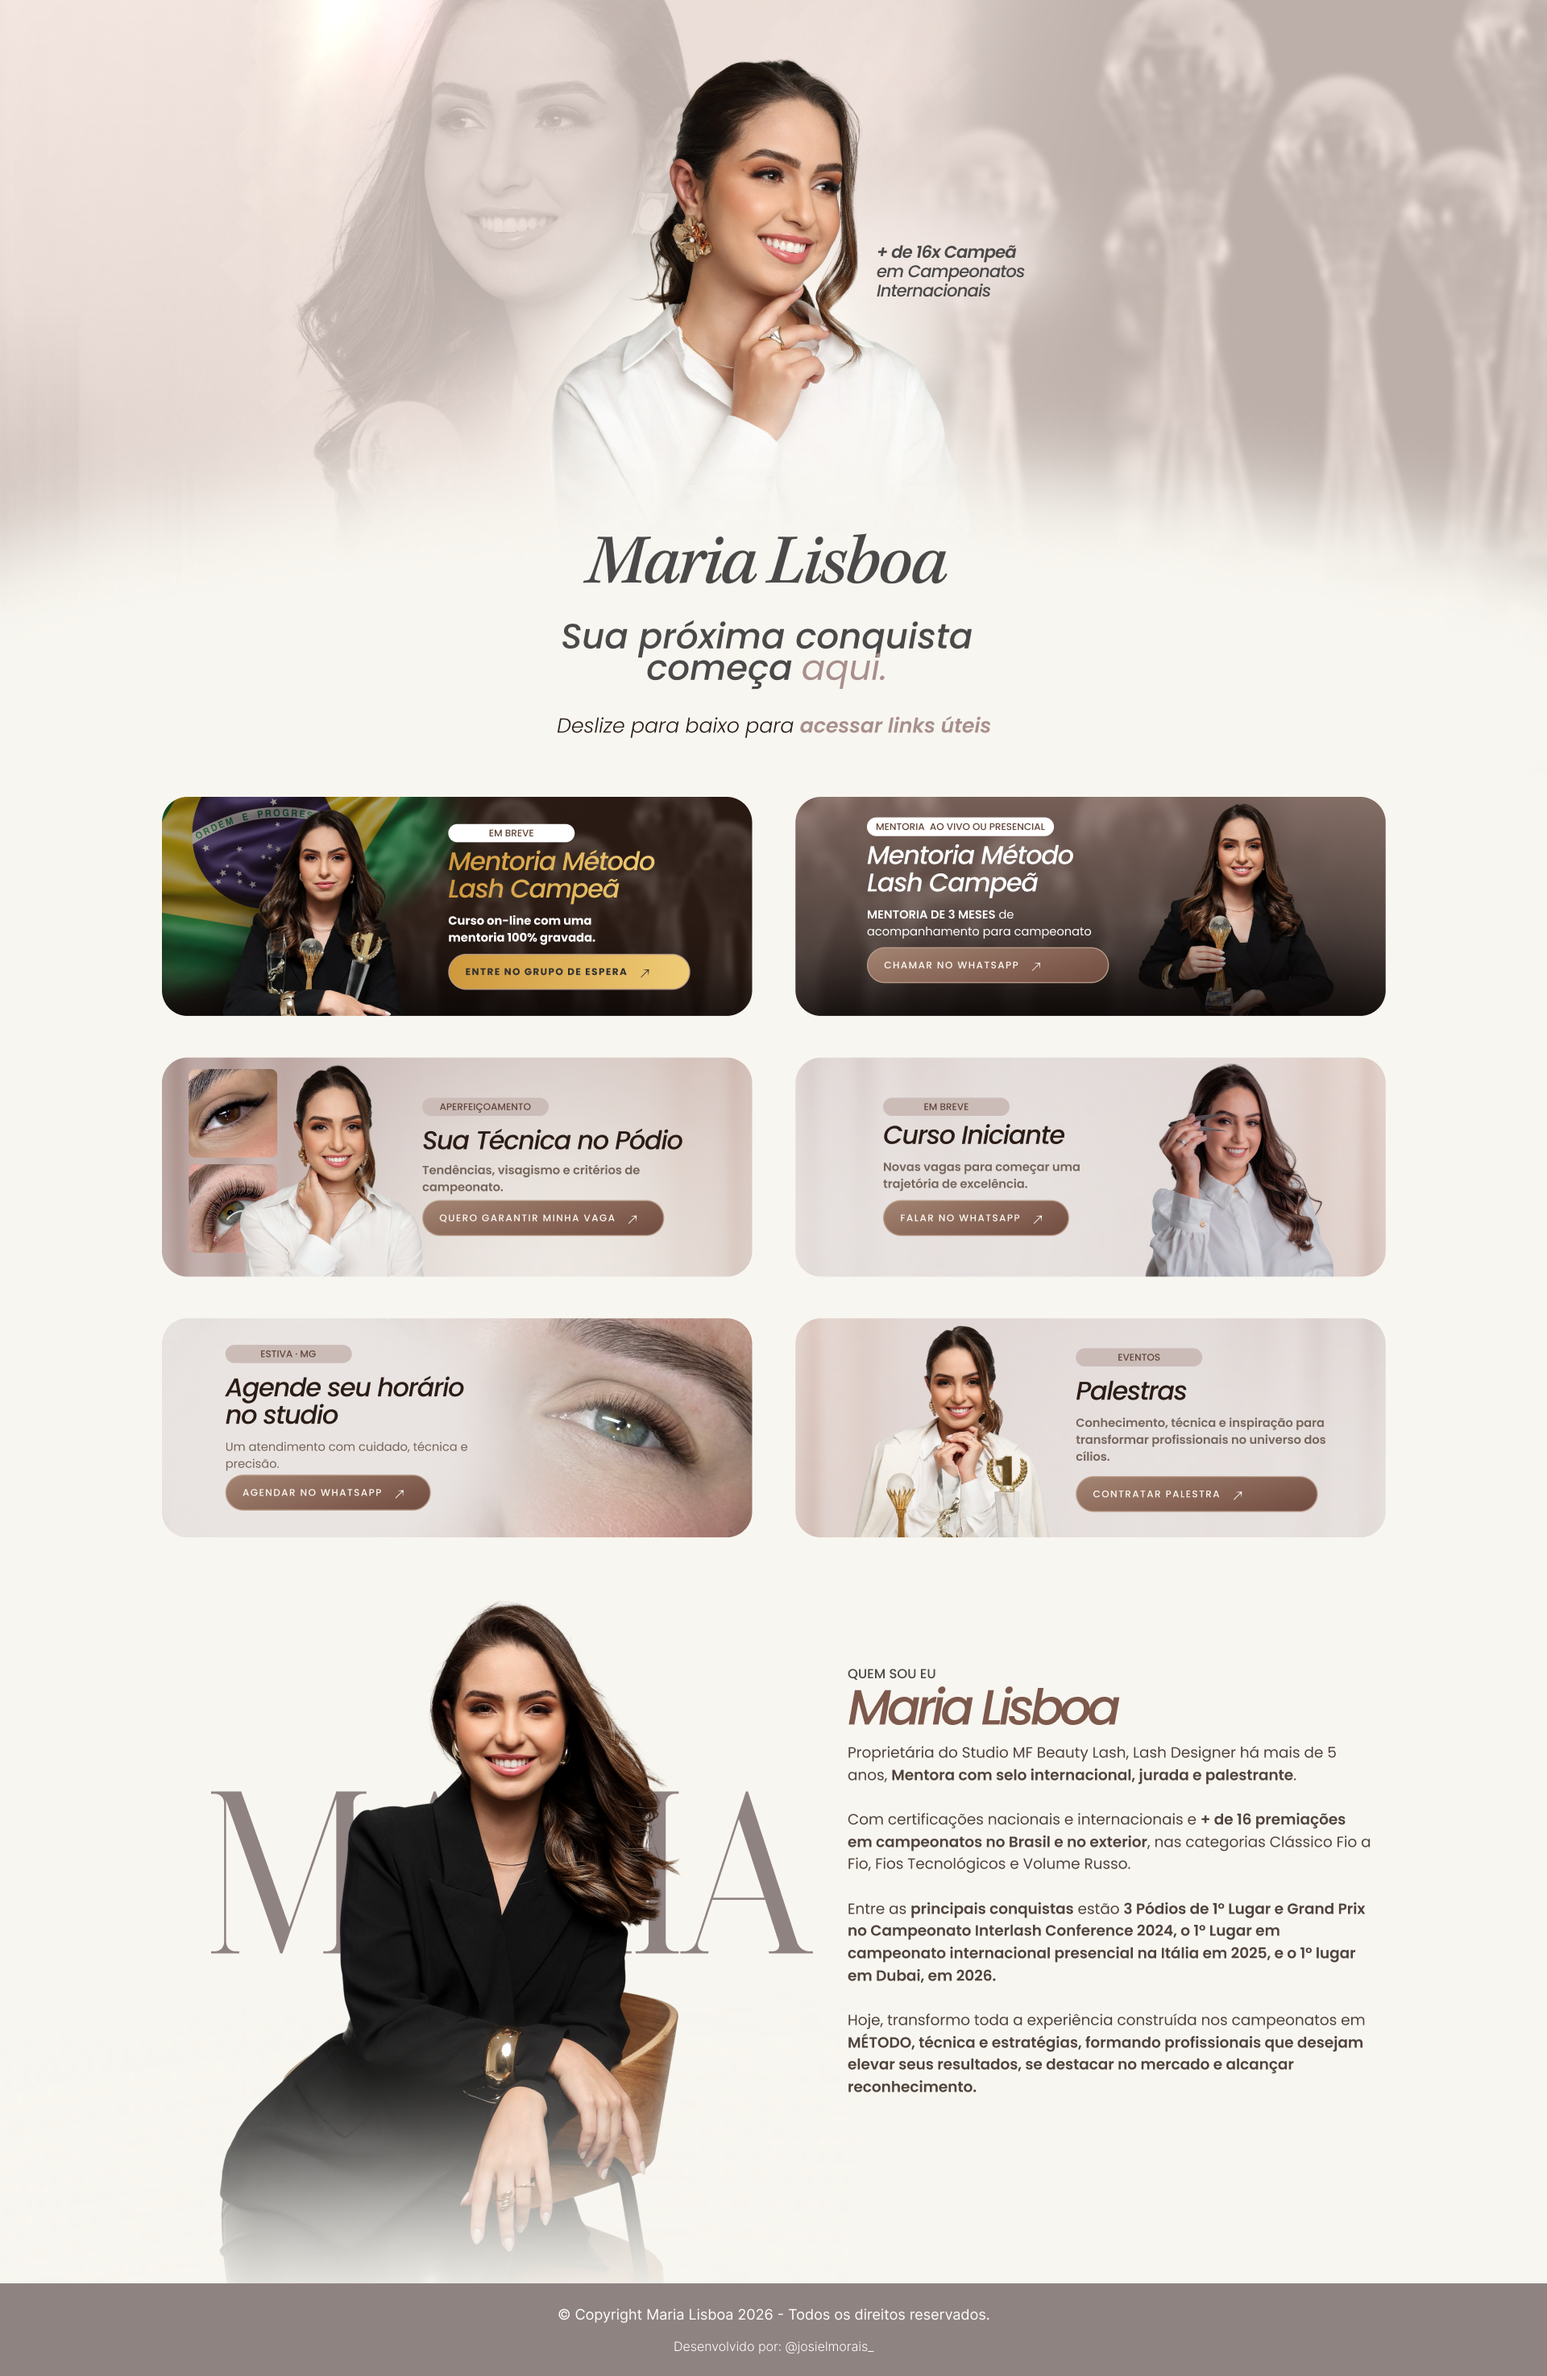
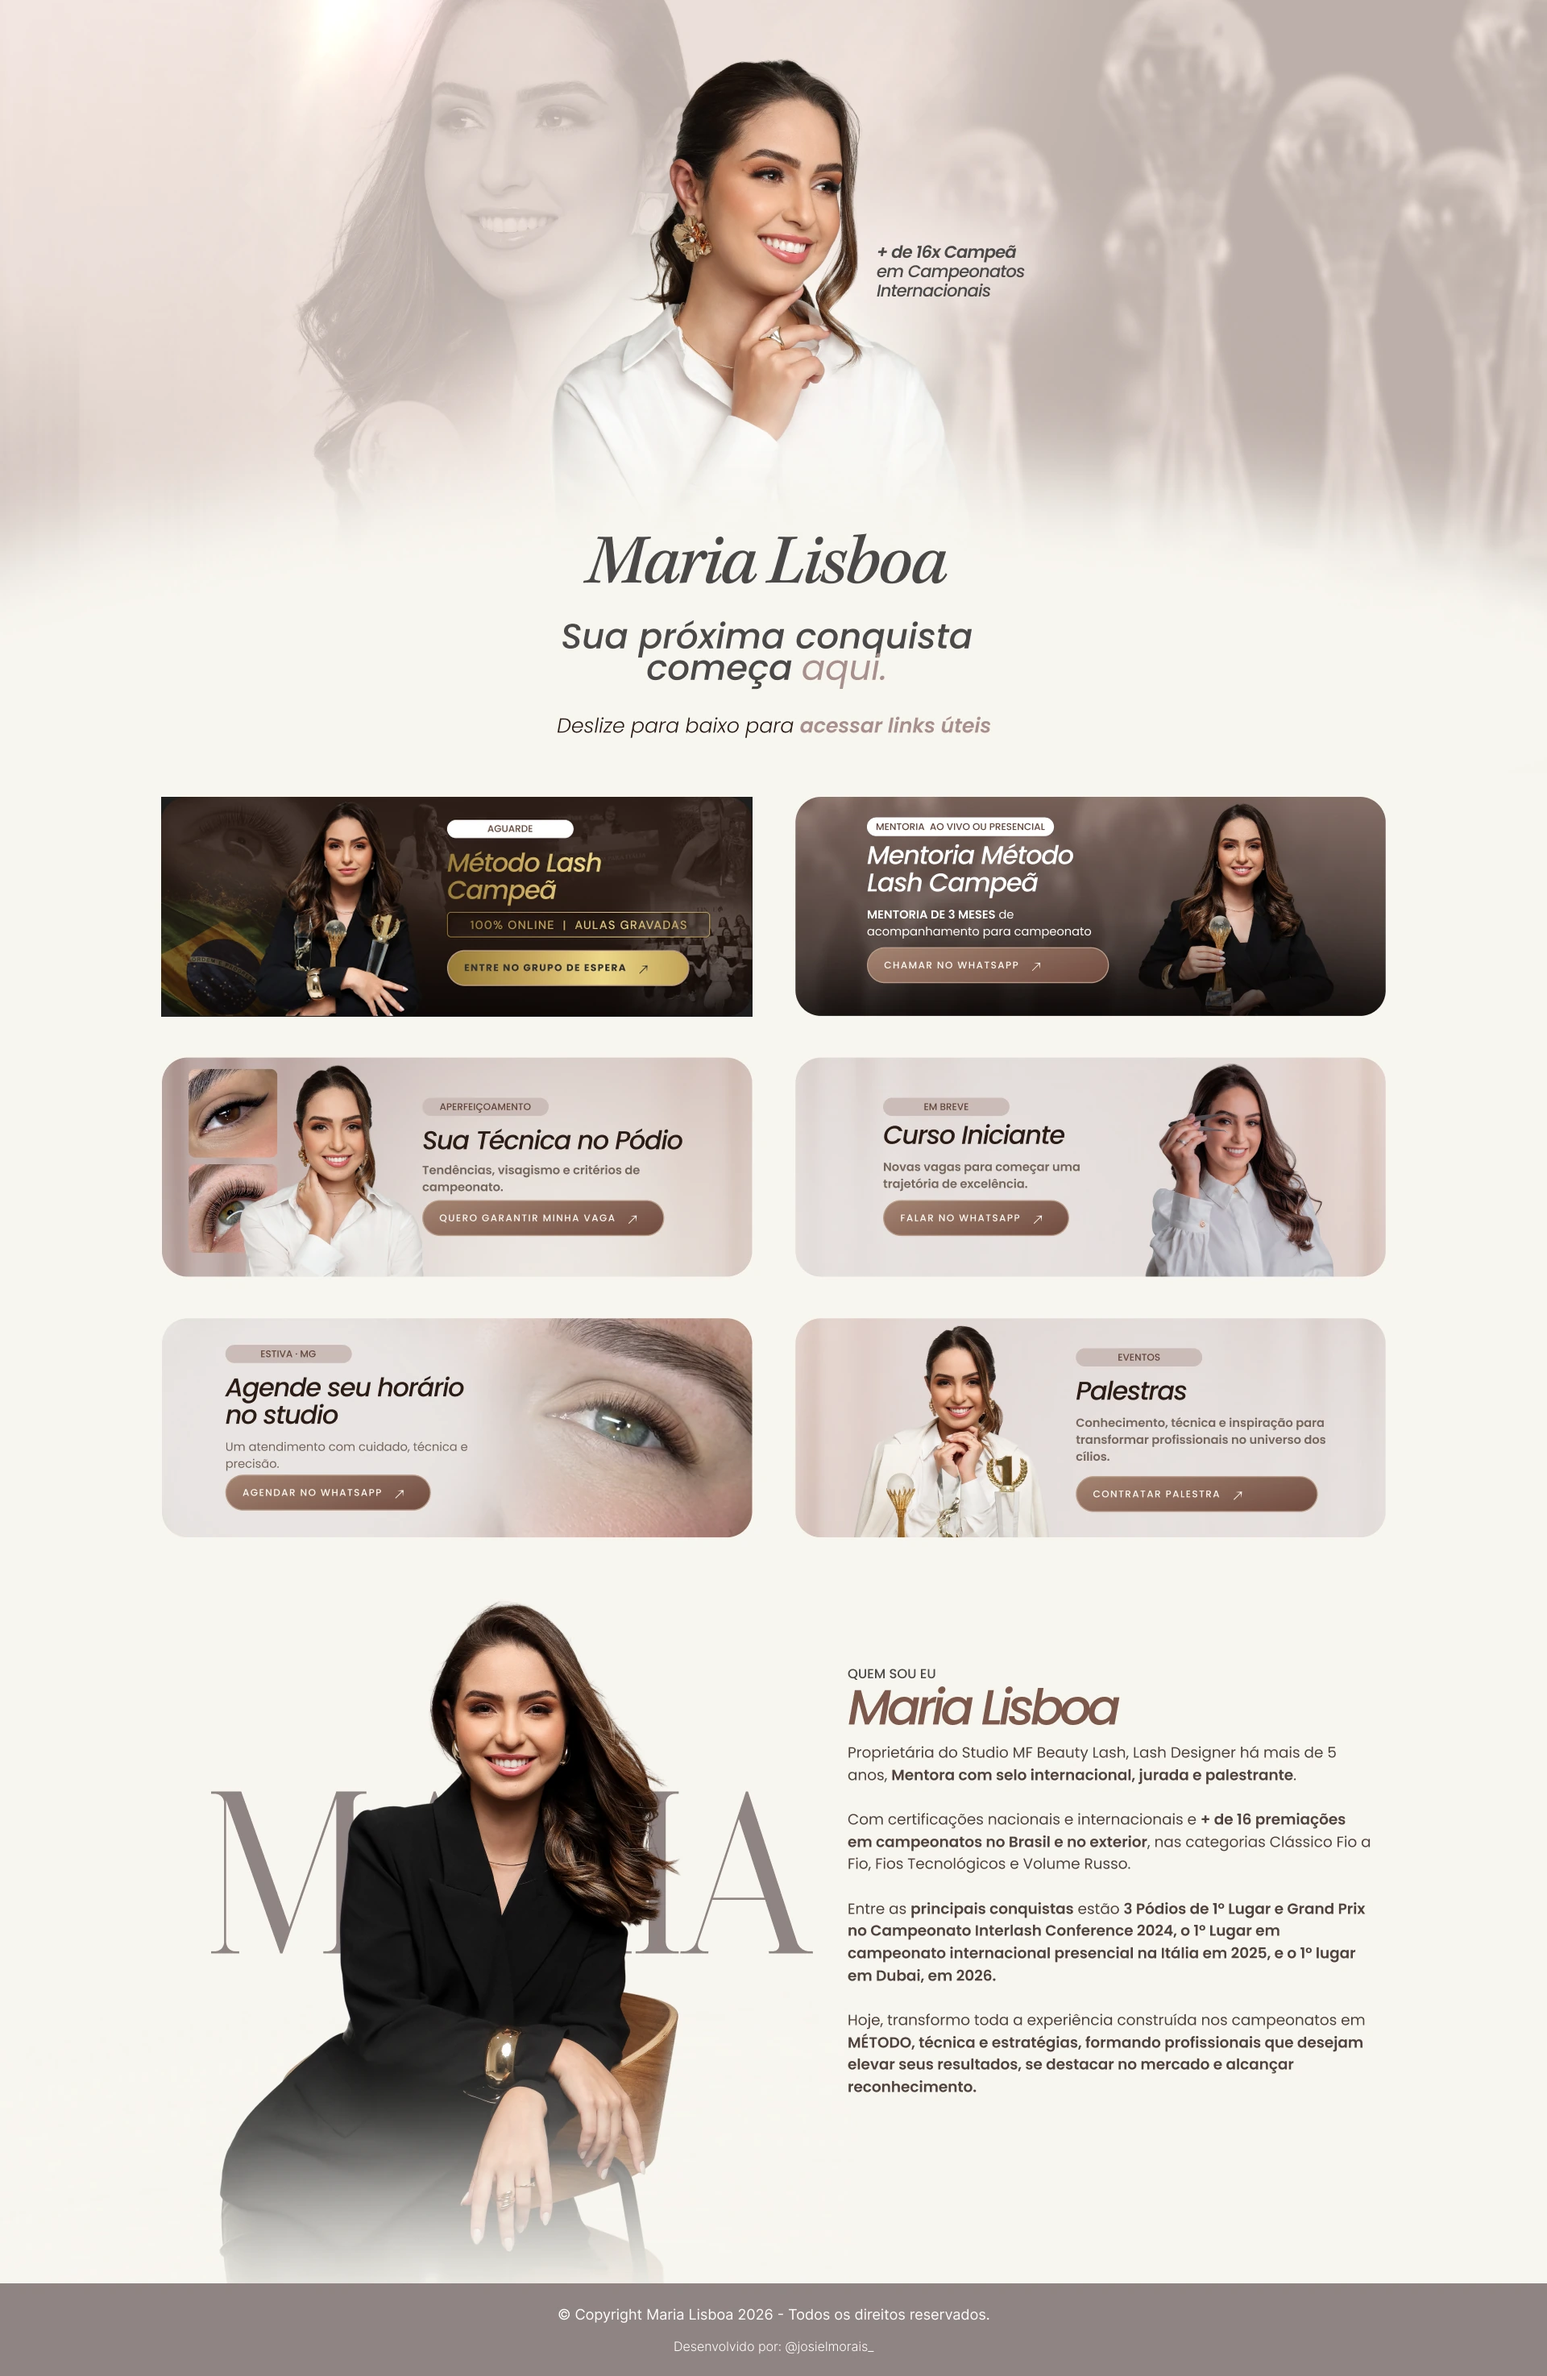
feat: atualizar botao MLC e rodape desktop

Changed region(s): [[0.0938, 0.312, 0.5, 0.4368]]

diff --git a/dist/index.html b/dist/index.html
@@ -6,7 +6,8 @@
   <meta name="theme-color" content="#f8f6f0" />
   <meta name="description" content="Maria Lisboa, Lash Designer, mentora, jurada e palestrante." />
   <title>Maria Lisboa | Lash Designer & Mentora</title>
-  <style>:root{--cream:#f8f6f0;--scale:1}
+  <style>@import url('https://fonts.googleapis.com/css2?family=Inter:wght@300;400&display=swap');
+:root{--cream:#f8f6f0;--scale:1}
 *{box-sizing:border-box}
 html,body{margin:0;background:var(--cream)}
 html{scroll-behavior:smooth}
@@ -15,6 +16,10 @@ body{min-width:320px;overflow-x:hidden;-webkit-font-smoothing:antialiased}
 .site{position:absolute;inset:0 auto auto 0;overflow:hidden;background:var(--cream);transform:scale(var(--scale));transform-origin:top left}
 .site-mobile{display:block;width:800px;height:3791px}
 .site-desktop{display:none;width:1920px;height:2949px}
+.desktop-footer{position:absolute;left:0;top:2834px;width:1920px;height:115px;background:#8f8382;color:#fff;font-family:'Inter',Arial,sans-serif}
+.desktop-footer p{position:absolute;margin:0;line-height:normal;white-space:nowrap}
+.desktop-footer-copyright{left:calc(50% - 268px);top:27px;font-size:18px;font-weight:400}
+.desktop-footer-developer{left:calc(50% + .5px);top:69px;transform:translateX(-50%);font-size:16px;font-weight:300}
 .slice{position:absolute;left:0;top:var(--y);width:100%;height:var(--h);overflow:hidden;background:var(--cream)}
 .slice-content{position:absolute;inset:0;overflow:hidden}
 .slice img{position:absolute;left:0;top:calc(-1 * var(--y));display:block;width:100%;height:auto;max-width:none;pointer-events:none;user-select:none}
@@ -63,7 +68,7 @@ body{min-width:320px;overflow-x:hidden;-webkit-font-smoothing:antialiased}
       <div class="card-effect" style="--x:53px;--y:1650px;--w:695px;--h:258px" data-card="curso-iniciante"></div>
       <div class="card-effect" style="--x:53px;--y:1930px;--w:695px;--h:257px" data-card="palestras"></div>
       <div class="card-effect" style="--x:53px;--y:2210px;--w:695px;--h:256px" data-card="studio"></div>
-      <a class="hotspot button-gold" style="--x:371px;--y:992px;--w:285px;--h:41px" data-link="mentoriaOnline" data-card="mentoria-online" aria-label="Mentoria Método Lash Campeã — curso on-line"></a>
+      <a class="hotspot button-gold" style="--x:389px;--y:992px;--w:285px;--h:41px" data-link="mentoriaOnline" data-card="mentoria-online" aria-label="Mentoria Método Lash Campeã — curso on-line"></a>
       <a class="hotspot" style="--x:118px;--y:1264px;--w:285px;--h:41px" data-link="mentoriaAoVivo" data-card="mentoria-ao-vivo" aria-label="Mentoria Método Lash Campeã — mentoria ao vivo ou presencial"></a>
       <a class="hotspot" style="--x:340px;--y:1532px;--w:285px;--h:41px" data-link="tecnicaPodio" data-card="tecnica-podio" aria-label="Sua Técnica no Pódio"></a>
       <a class="hotspot" style="--x:138px;--y:1808px;--w:219px;--h:41px" data-link="cursoIniciante" data-card="curso-iniciante" aria-label="Curso Iniciante"></a>
@@ -78,7 +83,10 @@ body{min-width:320px;overflow-x:hidden;-webkit-font-smoothing:antialiased}
       <section class="slice reveal reveal-right" style="--y:1287px;--h:323px"><div class="slice-content"><img src="./assets/figma_desktop_exact.webp" alt="" /></div></section>
       <section class="slice reveal reveal-left" style="--y:1610px;--h:346px"><div class="slice-content"><img src="./assets/figma_desktop_exact.webp" alt="" /></div></section>
       <section class="slice reveal" style="--y:1956px;--h:878px"><div class="slice-content"><img src="./assets/figma_desktop_exact.webp" alt="" /></div></section>
-      <section class="slice" style="--y:2834px;--h:115px"><div class="slice-content"><img src="./assets/figma_desktop_exact.webp" alt="" /></div></section>
+      <footer class="desktop-footer">
+        <p class="desktop-footer-copyright">© Copyright Maria Lisboa 2026 - Todos os direitos reservados.</p>
+        <p class="desktop-footer-developer">Desenvolvido por: @josielmorais_</p>
+      </footer>
 
       <div class="card-effect" style="--x:200px;--y:989px;--w:734px;--h:273px" data-card="mentoria-online"></div>
       <div class="card-effect" style="--x:987px;--y:989px;--w:733px;--h:273px" data-card="mentoria-ao-vivo"></div>

diff --git a/src/exact.html b/src/exact.html
@@ -27,7 +27,7 @@
       <div class="card-effect" style="--x:53px;--y:1650px;--w:695px;--h:258px" data-card="curso-iniciante"></div>
       <div class="card-effect" style="--x:53px;--y:1930px;--w:695px;--h:257px" data-card="palestras"></div>
       <div class="card-effect" style="--x:53px;--y:2210px;--w:695px;--h:256px" data-card="studio"></div>
-      <a class="hotspot button-gold" style="--x:371px;--y:992px;--w:285px;--h:41px" data-link="mentoriaOnline" data-card="mentoria-online" aria-label="Mentoria Método Lash Campeã — curso on-line"></a>
+      <a class="hotspot button-gold" style="--x:389px;--y:992px;--w:285px;--h:41px" data-link="mentoriaOnline" data-card="mentoria-online" aria-label="Mentoria Método Lash Campeã — curso on-line"></a>
       <a class="hotspot" style="--x:118px;--y:1264px;--w:285px;--h:41px" data-link="mentoriaAoVivo" data-card="mentoria-ao-vivo" aria-label="Mentoria Método Lash Campeã — mentoria ao vivo ou presencial"></a>
       <a class="hotspot" style="--x:340px;--y:1532px;--w:285px;--h:41px" data-link="tecnicaPodio" data-card="tecnica-podio" aria-label="Sua Técnica no Pódio"></a>
       <a class="hotspot" style="--x:138px;--y:1808px;--w:219px;--h:41px" data-link="cursoIniciante" data-card="curso-iniciante" aria-label="Curso Iniciante"></a>
@@ -42,7 +42,10 @@
       <section class="slice reveal reveal-right" style="--y:1287px;--h:323px"><div class="slice-content"><img src="./assets/figma_desktop_exact.webp" alt="" /></div></section>
       <section class="slice reveal reveal-left" style="--y:1610px;--h:346px"><div class="slice-content"><img src="./assets/figma_desktop_exact.webp" alt="" /></div></section>
       <section class="slice reveal" style="--y:1956px;--h:878px"><div class="slice-content"><img src="./assets/figma_desktop_exact.webp" alt="" /></div></section>
-      <section class="slice" style="--y:2834px;--h:115px"><div class="slice-content"><img src="./assets/figma_desktop_exact.webp" alt="" /></div></section>
+      <footer class="desktop-footer">
+        <p class="desktop-footer-copyright">© Copyright Maria Lisboa 2026 - Todos os direitos reservados.</p>
+        <p class="desktop-footer-developer">Desenvolvido por: @josielmorais_</p>
+      </footer>
 
       <div class="card-effect" style="--x:200px;--y:989px;--w:734px;--h:273px" data-card="mentoria-online"></div>
       <div class="card-effect" style="--x:987px;--y:989px;--w:733px;--h:273px" data-card="mentoria-ao-vivo"></div>

diff --git a/dist/styles.css b/dist/styles.css
@@ -1,3 +1,4 @@
+@import url('https://fonts.googleapis.com/css2?family=Inter:wght@300;400&display=swap');
 :root{--cream:#f8f6f0;--scale:1}
 *{box-sizing:border-box}
 html,body{margin:0;background:var(--cream)}
@@ -7,6 +8,10 @@ body{min-width:320px;overflow-x:hidden;-webkit-font-smoothing:antialiased}
 .site{position:absolute;inset:0 auto auto 0;overflow:hidden;background:var(--cream);transform:scale(var(--scale));transform-origin:top left}
 .site-mobile{display:block;width:800px;height:3791px}
 .site-desktop{display:none;width:1920px;height:2949px}
+.desktop-footer{position:absolute;left:0;top:2834px;width:1920px;height:115px;background:#8f8382;color:#fff;font-family:'Inter',Arial,sans-serif}
+.desktop-footer p{position:absolute;margin:0;line-height:normal;white-space:nowrap}
+.desktop-footer-copyright{left:calc(50% - 268px);top:27px;font-size:18px;font-weight:400}
+.desktop-footer-developer{left:calc(50% + .5px);top:69px;transform:translateX(-50%);font-size:16px;font-weight:300}
 .slice{position:absolute;left:0;top:var(--y);width:100%;height:var(--h);overflow:hidden;background:var(--cream)}
 .slice-content{position:absolute;inset:0;overflow:hidden}
 .slice img{position:absolute;left:0;top:calc(-1 * var(--y));display:block;width:100%;height:auto;max-width:none;pointer-events:none;user-select:none}

diff --git a/src/exact.css b/src/exact.css
@@ -1,3 +1,4 @@
+@import url('https://fonts.googleapis.com/css2?family=Inter:wght@300;400&display=swap');
 :root{--cream:#f8f6f0;--scale:1}
 *{box-sizing:border-box}
 html,body{margin:0;background:var(--cream)}
@@ -7,6 +8,10 @@ body{min-width:320px;overflow-x:hidden;-webkit-font-smoothing:antialiased}
 .site{position:absolute;inset:0 auto auto 0;overflow:hidden;background:var(--cream);transform:scale(var(--scale));transform-origin:top left}
 .site-mobile{display:block;width:800px;height:3791px}
 .site-desktop{display:none;width:1920px;height:2949px}
+.desktop-footer{position:absolute;left:0;top:2834px;width:1920px;height:115px;background:#8f8382;color:#fff;font-family:'Inter',Arial,sans-serif}
+.desktop-footer p{position:absolute;margin:0;line-height:normal;white-space:nowrap}
+.desktop-footer-copyright{left:calc(50% - 268px);top:27px;font-size:18px;font-weight:400}
+.desktop-footer-developer{left:calc(50% + .5px);top:69px;transform:translateX(-50%);font-size:16px;font-weight:300}
 .slice{position:absolute;left:0;top:var(--y);width:100%;height:var(--h);overflow:hidden;background:var(--cream)}
 .slice-content{position:absolute;inset:0;overflow:hidden}
 .slice img{position:absolute;left:0;top:calc(-1 * var(--y));display:block;width:100%;height:auto;max-width:none;pointer-events:none;user-select:none}
